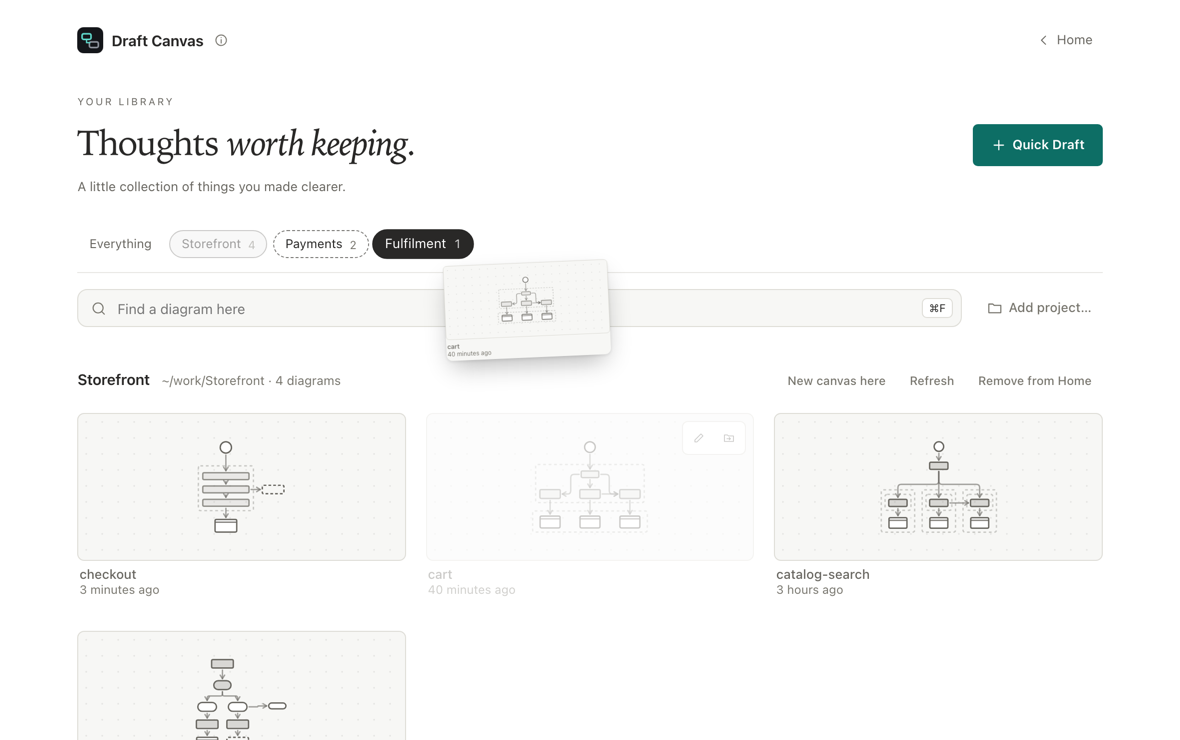
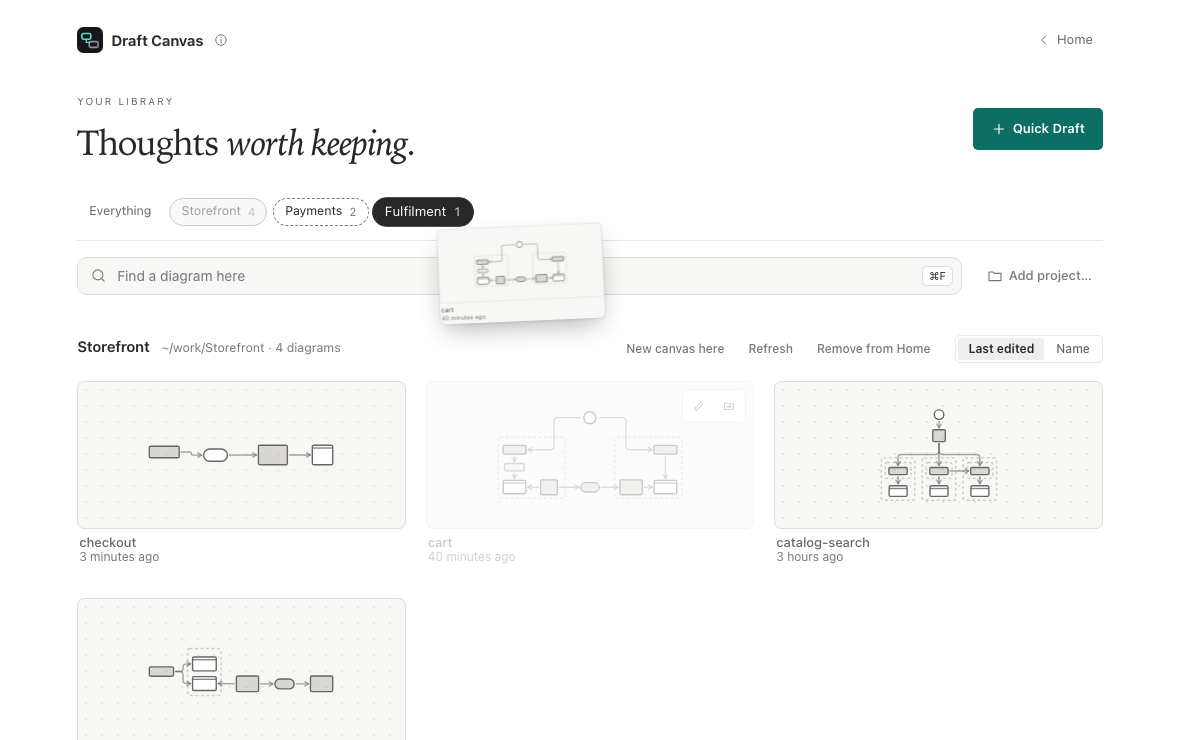
Sort the desktop library by last edited or name, and drop the library subtitle (#220)
Find a diagram now lists every scope newest-edited first, with a Last edited / Name
switch in the list's header that the device remembers. Folders stay first, by name.
The shared library heading loses its subtitle line.

diff --git a/src/desktop/ui/DeskBrowse.tsx b/src/desktop/ui/DeskBrowse.tsx
@@ -3,7 +3,9 @@ import { createPortal } from 'react-dom';
 import { warmExplorer } from './DesktopExplorer';
 import { Button } from '../../ui/common/Button';
 import { Icon } from '../../ui/common/Icon';
+import { SegmentedControl } from '../../ui/common/SegmentedControl';
 import { isImeKeyEvent } from '../../lib/isEditableTarget';
+import { readPreference, writePreference } from '../../lib/preferences';
 import { GalleryHeading } from '../../ui/Library/GalleryHeading';
 import { LibraryBrand } from '../../ui/Library/LibraryBrand';
 import { DesktopError, type Handle } from '../api';
@@ -12,7 +14,7 @@ import type { DesktopController } from '../controller';
 import { desktopStore, type DesktopState, type FileTarget, type ProjectState } from '../store';
 import { DocTile, type DocTileProps } from './DocTile';
 import { folderOfPath, resolveFileTarget } from './fileTargets';
-import { childrenOf, descendantsOf, folderTile, projectTile } from './tiles';
+import { childrenOf, descendantsOf, folderTile, projectTile, sortTiles, type BrowseOrder } from './tiles';
 import { useTileDrag } from './useTileDrag';
 
 export type BrowseScope = 'all' | 'unsaved' | 'recent' | { project: Handle; relPath: string };
@@ -24,7 +26,16 @@ export type BrowseTile = Omit<DocTileProps, 'index' | 'onKeyDown'> & {
   haystack: string;
   /** The file on disk a tile stands for: what dragging it onto a project moves. */
   file?: FileTarget;
+  /** When it last changed (a draft's last edit, a project file's modified time, a recent file's last
+   * open): what "Last edited" sorts by. A folder has none. */
+  when?: number;
 };
+
+const ORDER_KEY = 'browse-order';
+
+function recallOrder(): BrowseOrder {
+  return readPreference(ORDER_KEY) === 'name' ? 'name' : 'edited';
+}
 
 /** How many tiles show before "Show all": Everything, unsearched, is many groups' worth at once; every
  * other view is already just the one thing it's scoped to. */
@@ -60,6 +71,7 @@ export function DeskBrowse({
   const [scope, setScope] = useState<BrowseScope>(initialScope);
   const [query, setQuery] = useState(() => (scopesMatch(remembered?.scope, initialScope) ? remembered?.query ?? '' : ''));
   const [showAll, setShowAll] = useState(false);
+  const [order, setOrder] = useState<BrowseOrder>(recallOrder);
   const searchRef = useRef<HTMLInputElement>(null);
   // `.dc-browse` doesn't scroll itself — `.dc-desk`, its ancestor, does (see `desktop.css`) — so
   // that's the element a scroll position is saved from and restored to.
@@ -150,9 +162,10 @@ export function DeskBrowse({
     setShowAll(false);
   };
   const view = viewFor(scope, scoped, make, deferredQuery, searching, controller, openFolder);
+  const tiles = sortTiles(view.tiles, order);
 
   const limit = scope === 'all' && !searching ? OVERVIEW : FOCUSED;
-  const visible = showAll ? view.tiles : view.tiles.slice(0, limit);
+  const visible = showAll ? tiles : tiles.slice(0, limit);
 
   const scopes: { key: string; value: BrowseScope; label: string; count?: number; project?: Handle }[] = [
     { key: 'all', value: 'all', label: 'Everything' },
@@ -295,21 +308,38 @@ export function DeskBrowse({
                 {view.meta}
               </span>
             )}
-            {view.actions && <span className="dc-browse-actions">{view.actions}</span>}
+            <span className="dc-browse-tools">
+              {view.actions && <span className="dc-browse-actions">{view.actions}</span>}
+              {tiles.length > 1 && (
+                <SegmentedControl
+                  name="browse-order"
+                  legend="Sort by"
+                  value={order}
+                  options={[
+                    { value: 'edited', label: 'Last edited' },
+                    { value: 'name', label: 'Name' },
+                  ]}
+                  onChange={(next) => {
+                    setOrder(next);
+                    writePreference(ORDER_KEY, next);
+                  }}
+                />
+              )}
+            </span>
           </header>
-          {view.tiles.length === 0 && !searching ? (
+          {tiles.length === 0 && !searching ? (
             view.empty ?? <p className="dc-browse-summary">Nothing here yet. Add a project, or start a Quick Draft.</p>
           ) : (
             <div className="dc-browse-grid dc-gallery-grid" onPointerDown={pickUp}>
               {visible.map((tile, i) => {
-                const { haystack: _haystack, description: _description, file: _file, ...props } = tile;
+                const { haystack: _haystack, description: _description, file: _file, when: _when, ...props } = tile;
                 return <DocTile key={tile.entryKey} {...props} gallery index={Math.min(i, 12)} />;
               })}
             </div>
           )}
-          {visible.length < view.tiles.length && (
+          {visible.length < tiles.length && (
             <button type="button" className="dc-browse-more" onClick={() => setShowAll(true)}>
-              Show all {view.tiles.length}
+              Show all {tiles.length}
             </button>
           )}
         </section>
@@ -323,7 +353,7 @@ export function DeskBrowse({
             <div className="dc-browse">
               <div className="dc-browse-grid dc-gallery-grid">
                 {(() => {
-                  const { haystack: _haystack, description: _description, file: _file, fileActions: _actions, action: _action, ...props } = drag.item;
+                  const { haystack: _haystack, description: _description, file: _file, when: _when, fileActions: _actions, action: _action, ...props } = drag.item;
                   return <DocTile {...props} gallery index={0} />;
                 })()}
               </div>

diff --git a/src/desktop/ui/tiles.ts b/src/desktop/ui/tiles.ts
@@ -21,6 +21,7 @@ export function draftTile(entry: RecoveryEntry, controller: DesktopController): 
     // Changes to a file were left unsaved when the app closed without asking: that one is a warning.
     meta: fromFile ? `Unsaved changes · ${when}` : when,
     edited: true,
+    when: entry.updatedAt,
     label: fromFile ? `Recover unsaved changes to ${name}` : `Open ${name}, a draft not saved to a file`,
     description: fromFile ? `Changes to ${name} that were never saved · ${when}` : `Saved locally, not to a file · ${when}`,
     haystack: name.toLowerCase(),
@@ -36,6 +37,8 @@ export function recentTile(item: RecentItem, controller: DesktopController): Bro
     kind: 'document',
     name: item.name,
     meta: relativeTime(item.lastOpenedMs),
+    // A file outside every project is only ever known by when it was last opened.
+    when: item.lastOpenedMs,
     label: `Open ${item.name}`,
     description: `${item.displayPath} · opened ${relativeTime(item.lastOpenedMs)}`,
     haystack: `${item.name} ${item.displayPath}`.toLowerCase(),
@@ -65,6 +68,7 @@ export function projectTile(file: ProjectFile, project: ProjectInfo, controller:
     kind: 'document',
     name: file.name,
     meta: folder ? `${folder} · ${relativeTime(file.mtimeMs)}` : relativeTime(file.mtimeMs),
+    when: file.mtimeMs,
     label: `Open ${file.name}`,
     description: `${folder || project.name} · edited ${relativeTime(file.mtimeMs)}`,
     haystack: `${file.relPath} ${project.name}`.toLowerCase(),
@@ -135,16 +139,32 @@ function inAnyRegisteredProject(item: RecentItem, projects: ProjectState[]): boo
  * project, or inside one not yet scanned, still shows under its Recent tile — nothing to prefer it over.
  */
 export function everythingTiles(state: DesktopState, controller: DesktopController): BrowseTile[] {
-  interface Ranked {
-    when: number;
-    tile: BrowseTile;
-  }
-  const fromDrafts: Ranked[] = state.recovery.map((entry) => ({ when: entry.updatedAt, tile: draftTile(entry, controller) }));
-  const fromProjects: Ranked[] = state.projects
+  const fromDrafts = state.recovery.map((entry) => draftTile(entry, controller));
+  const fromProjects = state.projects
     .filter((project) => project.status === 'ready')
-    .flatMap((project) => project.files.map((file) => ({ when: file.mtimeMs, tile: projectTile(file, project.info, controller) })));
-  const fromRecent: Ranked[] = state.recents
+    .flatMap((project) => project.files.map((file) => projectTile(file, project.info, controller)));
+  const fromRecent = state.recents
     .filter((item) => item.kind === 'file' && !inAnyRegisteredProject(item, state.projects))
-    .map((item) => ({ when: item.lastOpenedMs, tile: recentTile(item, controller) }));
-  return [...fromDrafts, ...fromProjects, ...fromRecent].sort((a, b) => b.when - a.when).map((ranked) => ranked.tile);
+    .map((item) => recentTile(item, controller));
+  return sortTiles([...fromDrafts, ...fromProjects, ...fromRecent], 'edited');
+}
+
+/** How the browse view orders a list: newest first, or by name. A person's choice, kept on this device. */
+export type BrowseOrder = 'edited' | 'name';
+
+/**
+ * Folders first, by name, whichever order is chosen: they're places to go, not diagrams to compare.
+ * Then the diagrams, newest first or by name (`numeric`, so "Step 2" comes before "Step 10"); a tie
+ * in time falls back to the name, so the same listing always comes out in the same order.
+ */
+export function sortTiles(tiles: BrowseTile[], order: BrowseOrder): BrowseTile[] {
+  return [...tiles].sort((a, b) => {
+    const folders = Number(b.kind === 'folder') - Number(a.kind === 'folder');
+    if (folders !== 0) return folders;
+    if (order === 'edited') {
+      const newer = (b.when ?? 0) - (a.when ?? 0);
+      if (newer !== 0) return newer;
+    }
+    return a.name.localeCompare(b.name, undefined, { sensitivity: 'base', numeric: true });
+  });
 }

diff --git a/tests/desktop/home.test.ts b/tests/desktop/home.test.ts
@@ -4,6 +4,8 @@ import { addNodes } from '../../src/document/operations';
 import { serializeDocument } from '../../src/export/project';
 import { titleOf } from '../../src/desktop/controller';
 import { thumbnailOf } from '../../src/desktop/thumbnails';
+import type { BrowseTile } from '../../src/desktop/ui/DeskBrowse';
+import { sortTiles } from '../../src/desktop/ui/tiles';
 
 const withServices = (title: string, count: number) =>
   serializeDocument(
@@ -46,5 +48,34 @@ describe('a file’s thumbnail on Home', () => {
     expect(thumbnailOf(serializeDocument(createDocument('Empty'))).state).toBe('blank');
     expect(thumbnailOf('{ broken').state).toBe('blank');
     expect(thumbnailOf(null).state).toBe('blank');
+  });
+});
+
+describe('the order of diagrams in Browse', () => {
+  const tile = (name: string, when?: number, kind: BrowseTile['kind'] = 'document'): BrowseTile => ({
+    entryKey: `${kind}:${name}`,
+    kind,
+    name,
+    when,
+    label: name,
+    description: '',
+    haystack: name.toLowerCase(),
+    onOpen: () => {},
+  });
+  const names = (tiles: BrowseTile[]) => tiles.map((t) => t.name);
+  const list = [tile('beta', 10), tile('Alpha', 30), tile('zeta folder', undefined, 'folder'), tile('Step 10', 20), tile('Step 2', 20), tile('archive', undefined, 'folder')];
+
+  it('puts the most recently edited first, folders ahead of them by name', () => {
+    expect(names(sortTiles(list, 'edited'))).toEqual(['archive', 'zeta folder', 'Alpha', 'Step 2', 'Step 10', 'beta']);
+  });
+
+  it('sorts by name, ignoring case and reading numbers as numbers', () => {
+    expect(names(sortTiles(list, 'name'))).toEqual(['archive', 'zeta folder', 'Alpha', 'beta', 'Step 2', 'Step 10']);
+  });
+
+  it('leaves the list it was given as it was', () => {
+    const before = names(list);
+    sortTiles(list, 'name');
+    expect(names(list)).toEqual(before);
   });
 });

diff --git a/src/desktop/ui/desktop.css b/src/desktop/ui/desktop.css
@@ -736,14 +736,36 @@
   overflow-wrap: anywhere;
 }
 
+/* The right end of a group's head: its actions, then how the list is sorted. */
+.dc-browse-tools {
+  display: inline-flex;
+  flex: none;
+  align-items: center;
+  align-self: center;
+  gap: 14px;
+  margin-left: auto;
+}
+
 /* A group's own actions, out of the way until the group is under the pointer or focus. */
 .dc-browse-actions {
   display: inline-flex;
   flex: none;
   gap: 2px;
-  margin-left: auto;
   opacity: 0.55;
   transition: opacity 120ms ease;
+}
+
+/* The sort sits in the head as a quiet trough, a size smaller than a form's: it's read more than used. */
+.dc-browse-tools .dc-segmented {
+  align-self: center;
+  border-color: color-mix(in srgb, var(--dc-border) 70%, transparent);
+  background: transparent;
+}
+
+.dc-browse-tools .dc-segmented-option {
+  height: 22px;
+  padding: 0 10px;
+  font-size: 12px;
 }
 
 .dc-browse-group:hover .dc-browse-actions,

diff --git a/src/ui/Library/GalleryHeading.tsx b/src/ui/Library/GalleryHeading.tsx
@@ -8,7 +8,6 @@ export function GalleryHeading({ action }: { action: ReactNode }) {
       <div>
         <p className="dc-gallery-eyebrow">Your library</p>
         <h2>Thoughts <em>worth keeping.</em></h2>
-        <p className="dc-gallery-subtitle">A little collection of things you made clearer.</p>
       </div>
       {action}
     </div>

diff --git a/src/ui/Library/gallery.css b/src/ui/Library/gallery.css
@@ -29,12 +29,6 @@
   color: inherit;
 }
 
-.dc-gallery-subtitle {
-  margin: 13px 0 0;
-  color: var(--dc-text-muted);
-  font-size: 13px;
-}
-
 .dc-gallery-heading > .dc-button {
   flex-shrink: 0;
   height: 42px;

diff --git a/docs/guides/desktop.md b/docs/guides/desktop.md
@@ -53,6 +53,8 @@ Choose **Quick Draft** on Home (`⌘N`) and start drawing; no name or folder nee
 
 A project is an ordinary folder of `.draftcanvas` files. **New canvas here** adds a diagram to the
 current folder. **Find a diagram** (`⌘F` on Home) searches projects, recent files and drafts.
+Diagrams are listed with the most recently edited first; choose **Name** above the list to sort them
+alphabetically. Home remembers the choice.
 **Remove from Home** forgets a project; its files stay.
 
 To move a diagram to another project, point at its tile on Home or in **Find a diagram** and choose

diff --git a/CHANGELOG.md b/CHANGELOG.md
@@ -58,6 +58,8 @@ this file. See [Release notes](docs/reference/releases.md#release-notes).
 
 - **OpenCode** — **Settings → AI agents** connects OpenCode 1 and 2 in one click, alongside Claude
   Code, Codex, Cursor, Gemini CLI and Junie, and shows how to check the connection.
+- **Sort your diagrams** — Every list in **Find a diagram** shows the most recently edited first,
+  or sorts by **Name** instead. The choice is remembered.
 
 #### Changed
 
